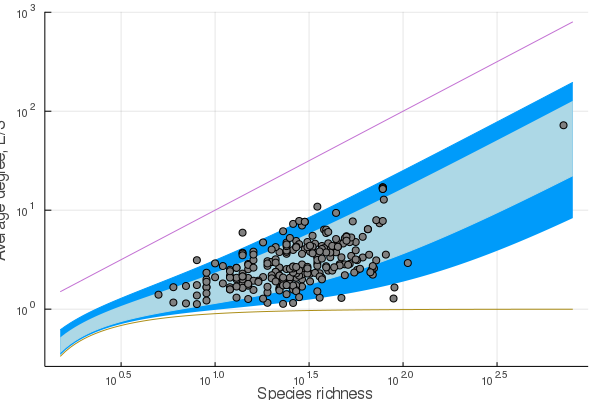
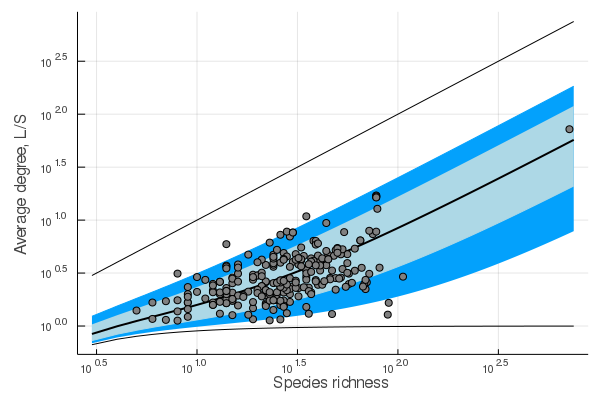
Figure 4 in 3 different figures

diff --git a/manuscript.md b/manuscript.md
@@ -295,6 +295,8 @@ biological mechanisms such as handling time, capture efficiency, etc, in the
 number of interactions they can establish. Seeing how most ecological networks
 are reasonably small, this does not look like an unreasonable assumption.
 
+![Distribution of average degree](figures/L_S_distribution.png){#fig:avg_degree}
+
 
 ## Distribution of connectance
 
@@ -309,6 +311,7 @@ instead choose to describe the distribution of links, rather than connectances.
 In our model, the distribution of links is beta-binomial, with hyperparameters
 $\mu$ and $\phi$.
 
+![Distribution of connectance](figures/fig_04a_connectance_species.png){#fig:connectance}
 
 
 
@@ -343,7 +346,7 @@ world" or "scale free" regimes when they exceed a certain connectance; this is
 because for small networks, connectance is higher, and only decreases towards
 $p$ when the term in $S^{-2}$ in +@eq:co vanishes.
 
-![Distribution of connectance, link density and k](figures/fig_04_linkdens_connect_k.png){#fig:connect_linkdens_k}
+![Powerlaw k](figures/fig_04b_k_species.png){#fig:powerlawk}
 
 ## We can derive a measure of departure from expected number of links
 
